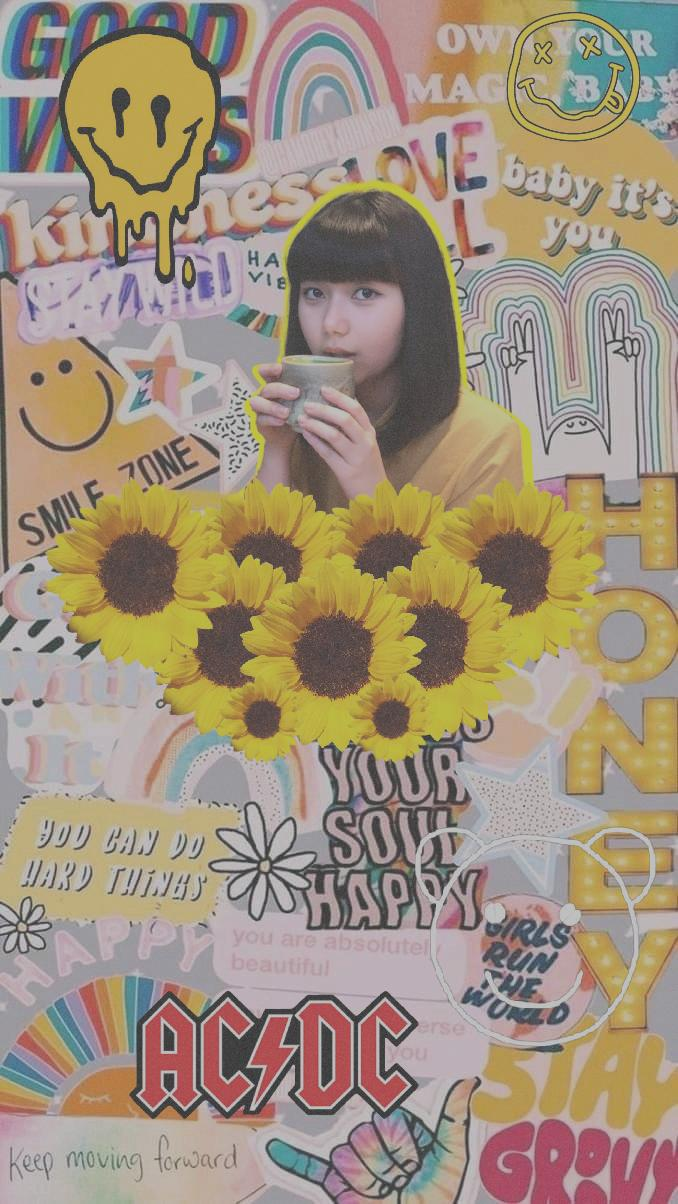
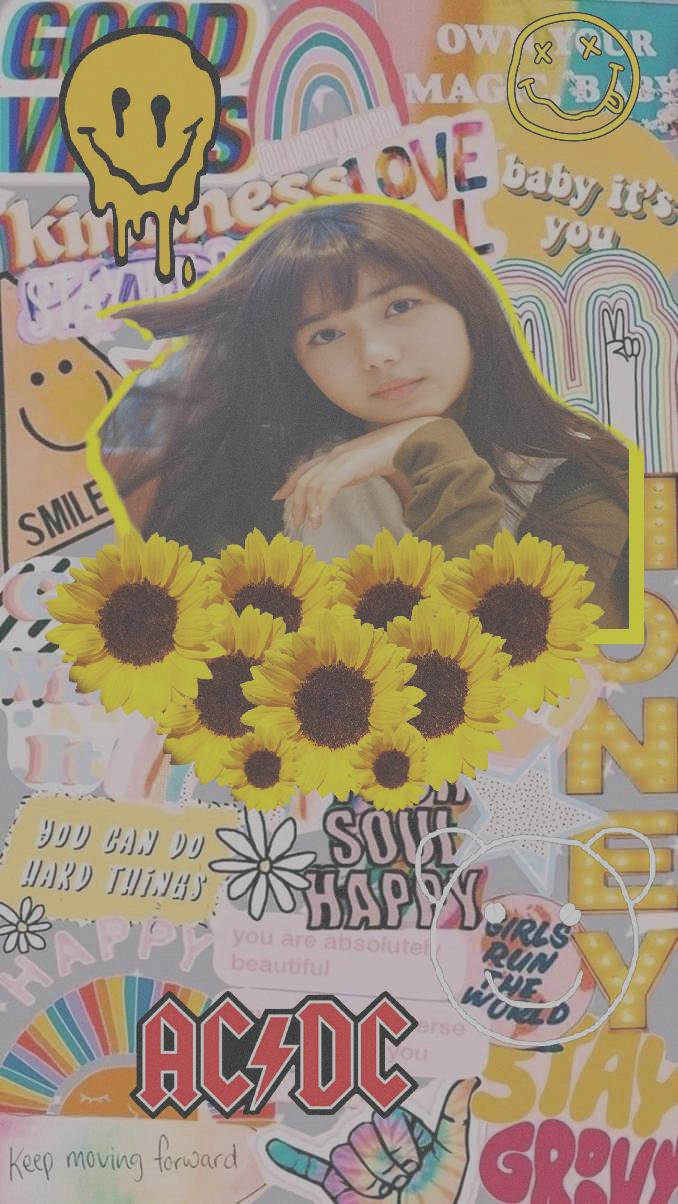
update using rembg

Changed region(s): [[0.0619, 0.1229, 0.9602, 0.6761]]

diff --git a/main.py b/main.py
@@ -1,0 +1,20 @@
+from rembg import remove
+from aesthestic.maker import AestheticMaker
+from PIL import Image
+
+name_file = "input.jpeg"
+
+img = Image.open(name_file)
+out = remove(img)
+out.save("output.png")
+
+
+maker1 = AestheticMaker("background.jpg", "output.png")
+maker1.create()
+maker1.save("maker1.jpg")
+maker1.showImage()
+
+# without decoration
+maker2 = AestheticMaker("background.jpg", "output.png")
+maker2.create(decoration=False)
+maker2.save("maker2.jpg")
